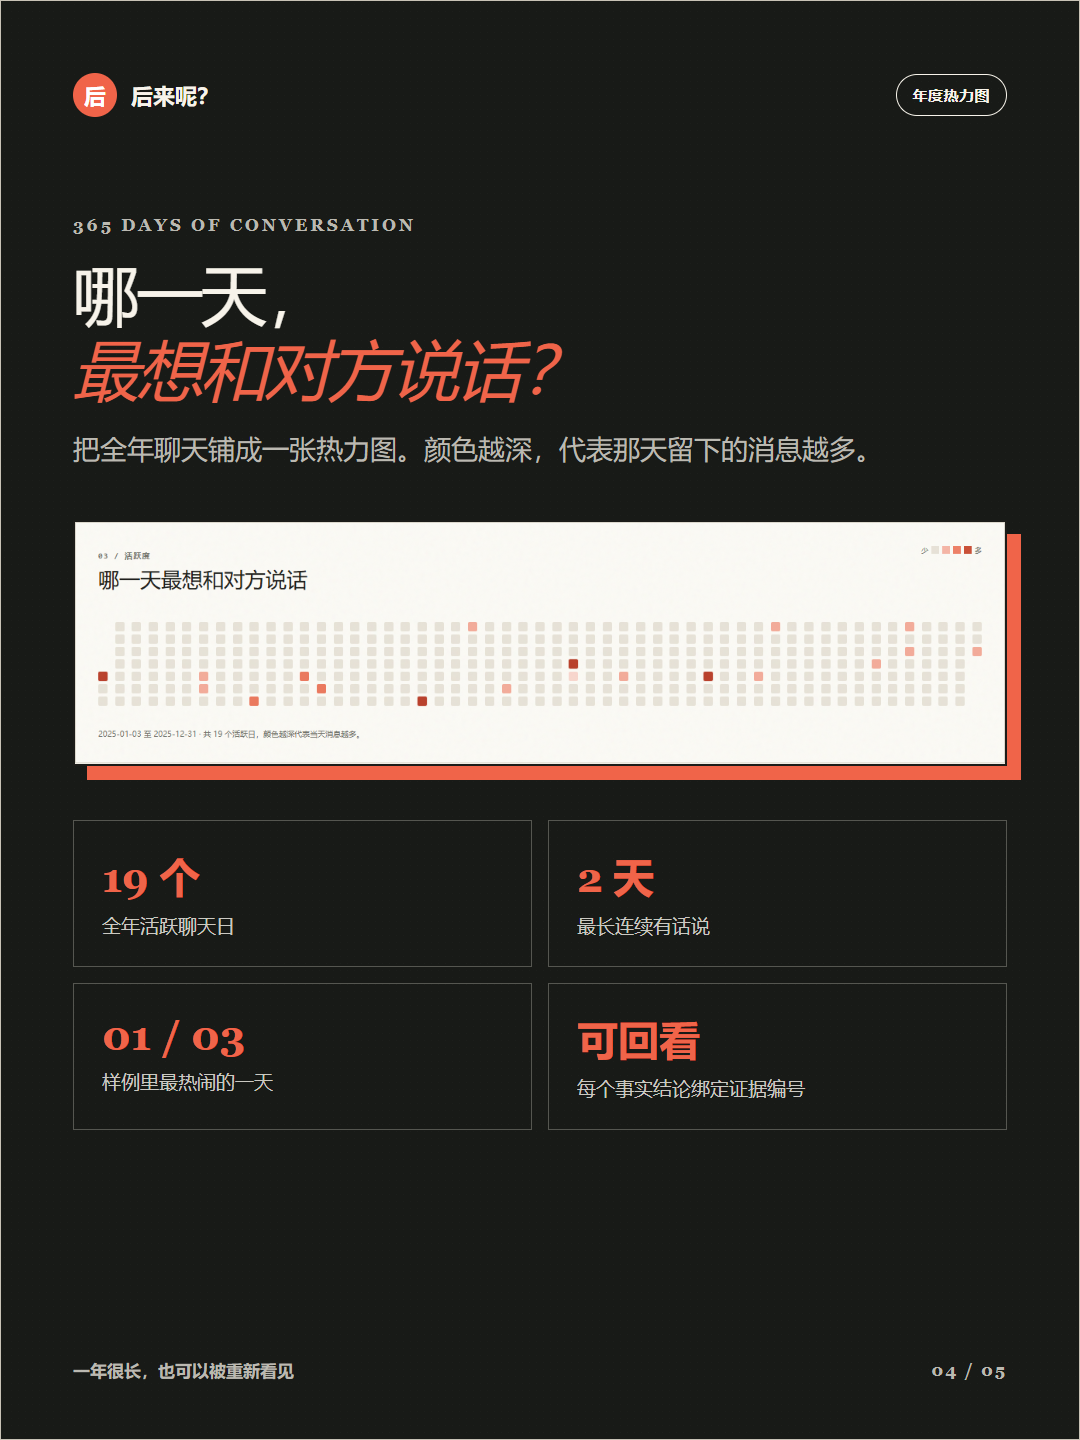
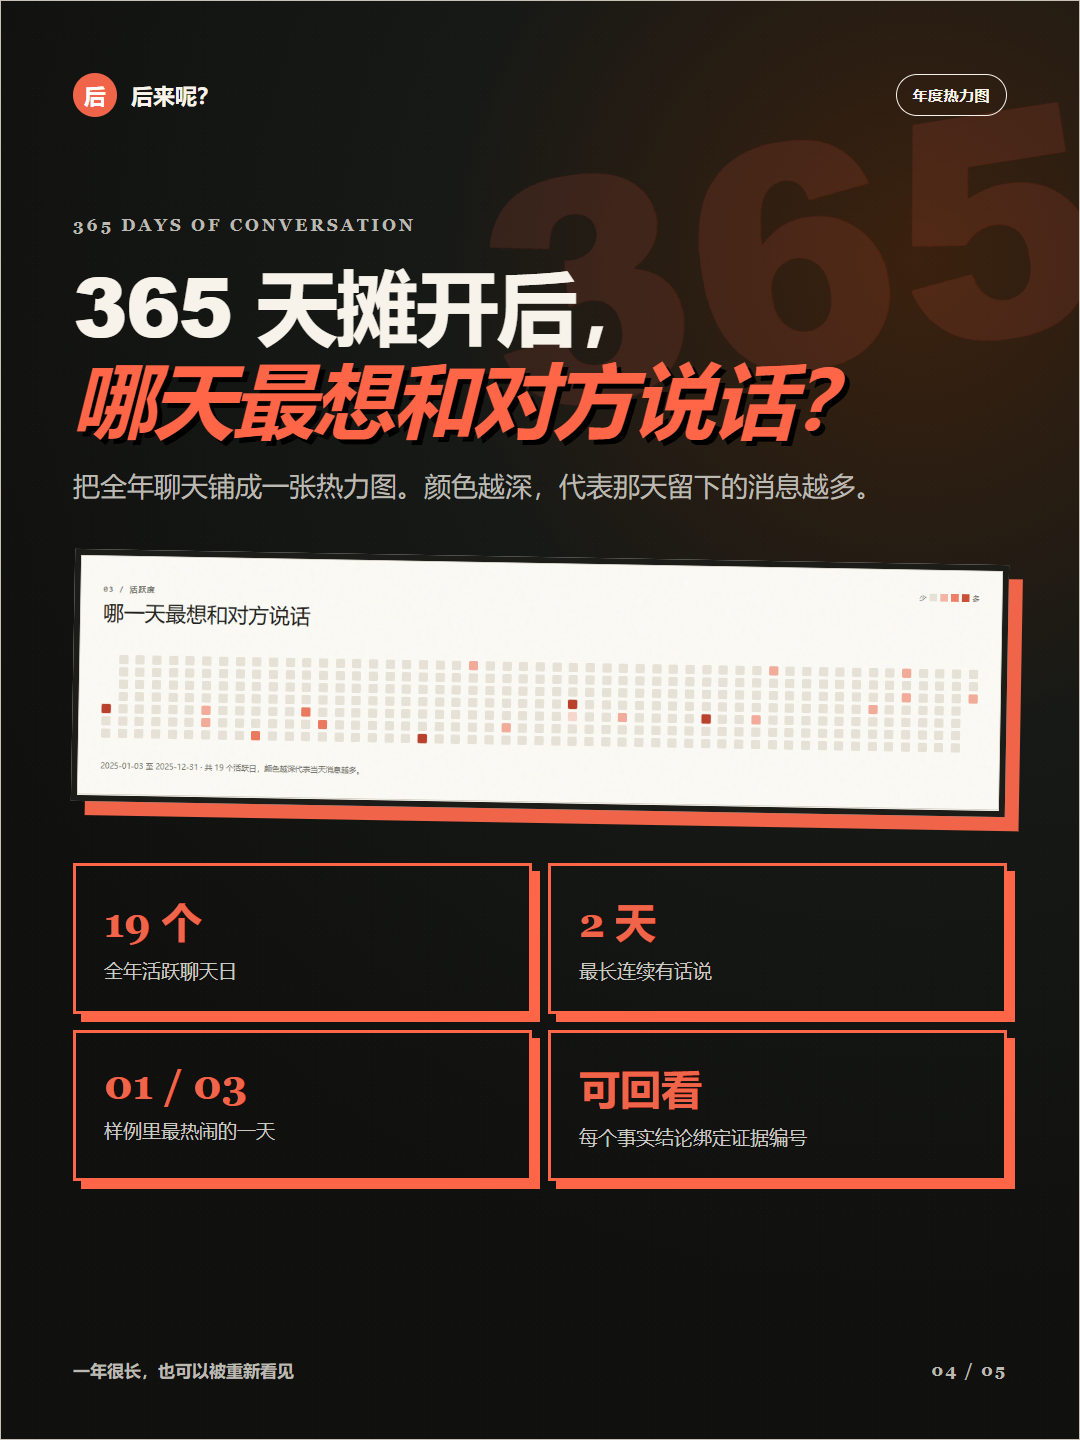
docs: amplify Xiaohongshu launch visuals

Changed region(s): [[0.0611, 0.0625, 1.0, 0.8438]]

diff --git a/article/小红书配图.html b/article/小红书配图.html
@@ -71,14 +71,59 @@
     .key i { padding: 17px; background: #22231f; color: white; font-style: normal; }
     .fixed { margin-top: 14px; padding: 12px; background: #eef3e9; font: 14px monospace; color: #53704e; }
     .privacy { position: relative; z-index: 2; margin-top: 42px; padding: 30px; border-left: 8px solid #7f9d7b; background: #e8eee4; font-size: 21px; line-height: 1.6; }
+    /* V2：高冲击小红书视觉。保留真实界面与文字，只重做注意力层级。 */
+    #poster-1 { background: #ffe817; }
+    #poster-1::before { content: ""; position: absolute; width: 880px; height: 880px; right: -430px; top: 120px; border-radius: 50%; background: repeating-conic-gradient(#ff593d 0 7deg, transparent 7deg 15deg); opacity: .92; }
+    #poster-1 h1, #poster-2 h2, #poster-3 h2, #poster-5 h2 { font-family: "Arial Black", "Microsoft YaHei", sans-serif; font-weight: 950; font-style: normal; }
+    #poster-1 h1 { margin-top: 30px; font-size: 105px; line-height: 1.02; text-shadow: 8px 8px 0 #fff; }
+    #poster-1 .accent { color: #ff4d2e; -webkit-text-stroke: 3px #161713; text-shadow: 7px 7px 0 #fff; }
+    #poster-1 .lead { max-width: 720px; padding: 16px 20px; background: #161713; color: white; font-weight: 800; transform: rotate(-1deg); }
+    #poster-1 .paper { margin-top: 58px; border-width: 6px; box-shadow: 24px 24px 0 #3155ff; transform: rotate(-1.5deg); }
+    #poster-1 .burst { position: absolute; z-index: 4; right: 46px; top: 596px; width: 190px; height: 190px; display: grid; place-items: center; padding: 25px; border-radius: 50%; background: #3155ff; color: white; border: 5px solid #171813; box-shadow: 8px 8px 0 white; text-align: center; font-size: 25px; line-height: 1.25; font-weight: 900; transform: rotate(10deg); }
+    #poster-2 { background: #ff6547; }
+    #poster-2 h2 { margin-top: 22px; font-size: 74px; line-height: 1.08; color: #161713; text-shadow: 5px 5px 0 #fff; }
+    #poster-2 .accent { color: #ffe817; -webkit-text-stroke: 2px #161713; text-shadow: 5px 5px 0 #fff; }
+    #poster-2 .lead { color: #1a1b17; font-weight: 800; }
+    #poster-2 .event { border: 5px solid #161713; box-shadow: 11px 11px 0 #161713; }
+    #poster-2 .event:nth-child(1) { transform: rotate(-2deg); }
+    #poster-2 .event:nth-child(3) { transform: rotate(1.5deg); }
+    #poster-2 .event:nth-child(5) { transform: rotate(-1deg); }
+    #poster-2 .timeline-result { border: 3px solid #161713; background: #ffe817; box-shadow: 8px 8px 0 #3155ff; }
+    #poster-2 .tags span { border: 3px solid #161713; background: white; font-weight: 800; box-shadow: 4px 4px 0 #161713; }
+    #poster-3 { background: #5368ff; color: white; }
+    #poster-3::before { content: "18:00"; position: absolute; right: -35px; top: 110px; color: rgba(255,232,23,.16); font: 950 230px/1 "Arial Black", sans-serif; transform: rotate(-8deg); }
+    #poster-3 h2 { font-size: 78px; text-shadow: 6px 6px 0 #171813; }
+    #poster-3 .accent { color: #ffe817; -webkit-text-stroke: 2px #171813; text-shadow: 6px 6px 0 #171813; }
+    #poster-3 .lead { color: white; font-weight: 800; }
+    #poster-3 .visual-frame { border-width: 6px; box-shadow: 18px 18px 0 #ffe817; transform: rotate(-1deg); }
+    #poster-3 .insight-strip div { border: 4px solid #171813; box-shadow: 8px 8px 0 #171813; color: #171813; background: #ffe817; }
+    #poster-3 .insight-strip div:nth-child(2) { background: #b9ff35; }
+    #poster-3 .insight-strip div:nth-child(3) { background: #ff6547; }
+    #poster-3 .footer { color: white; }
+    #poster-4 { background: radial-gradient(circle at 85% 18%, #3b210e 0, #171916 32%, #10110f 70%); }
+    #poster-4::before { content: "365"; position: absolute; right: -20px; top: 90px; color: rgba(255,101,71,.12); font: 950 310px/1 "Arial Black", sans-serif; transform: rotate(-9deg); }
+    #poster-4 h2 { font-family: "Arial Black", "Microsoft YaHei", sans-serif; font-weight: 950; font-size: 82px; }
+    #poster-4 .accent { color: #ff6547; text-shadow: 5px 5px 0 #000; }
+    #poster-4 .visual-frame { border-width: 6px; transform: rotate(1deg); }
+    #poster-4 .heat-facts div { border: 3px solid #ff6547; box-shadow: 8px 8px 0 #ff6547; }
+    #poster-5 { background: #b9ff35; }
+    #poster-5::before { content: "UPLOAD YOUR CHAT"; position: absolute; right: -110px; top: 280px; padding: 18px 120px; background: #ff6547; color: #171813; font: 950 30px/1 "Arial Black", sans-serif; transform: rotate(18deg); border: 4px solid #171813; }
+    #poster-5 h2 { font-size: 78px; line-height: 1.06; text-shadow: 6px 6px 0 white; }
+    #poster-5 .accent { color: #3155ff; -webkit-text-stroke: 2px #171813; text-shadow: 6px 6px 0 white; }
+    #poster-5 .lead { color: #171813; font-weight: 800; }
+    #poster-5 .entry-card { border-width: 5px; box-shadow: 14px 14px 0 #3155ff; }
+    #poster-5 .entry-card:nth-child(2) { transform: rotate(1deg); box-shadow: 14px 14px 0 #ff6547; }
+    #poster-5 .privacy { border: 4px solid #171813; background: #ffe817; box-shadow: 8px 8px 0 #171813; }
+    #poster-5 .tags span { border: 3px solid #171813; background: white; font-weight: 800; box-shadow: 4px 4px 0 #171813; }
   </style>
 </head>
 <body>
   <section class="poster cover" id="poster-1">
     <div class="topline"><div class="brand"><i>后</i><span>后来呢？</span></div><span class="model">Doubao-Seed-Evolving</span></div>
-    <div class="eyebrow">WHAT HAPPENED NEXT? / 2025</div>
-    <h1>把一整年的聊天，<br><span class="accent">还原成故事发生过的样子。</span></h1>
-    <p class="lead">不是只看“聊了多少”，而是找回一句约定、一次反馈和它们隔了几个月才出现的后来。</p>
+    <div class="eyebrow">CHAT RECORDS → STORY LINES</div>
+    <h1>我把一整年的聊天<br><span class="accent">丢给了 AI。</span></h1>
+    <p class="lead">结果它翻出了：27 天后真的发生的约定。</p>
+    <div class="burst">不是算<br>“谁更爱谁”</div>
     <div class="paper">
       <div class="paper-head"><span>A CLUE ACROSS TIME</span><span>27 DAYS</span></div>
       <div class="message">周末要不要去江边骑车？</div>
@@ -92,8 +137,8 @@
   <section class="poster" id="poster-2">
     <div class="topline"><div class="brand"><i>后</i><span>后来呢？</span></div><span class="model">跨月线索</span></div>
     <div class="eyebrow">A CLUE ACROSS TIME</div>
-    <h2>一句“等忙完去骑车”，<br><span class="accent">27 天后真的发生了吗？</span></h2>
-    <p class="lead">关键词只能找到“骑车”。真正想知道的是：谁先提出、有没有重排、最后是否落地。</p>
+    <h2>“等忙完去骑车”，<br><span class="accent">27 天后居然真去了！</span></h2>
+    <p class="lead">关键词只能找到“骑车”。它找的是：提出 → 重排 → 最后落地。</p>
     <div class="timeline">
       <div class="timeline-row">
         <div class="event coral"><small>03 / 09 · 发起</small><q>周末要不要去江边骑车？</q><b>E00010</b></div>
@@ -111,8 +156,8 @@
   <section class="poster" id="poster-3">
     <div class="topline"><div class="brand"><i>后</i><span>后来呢？</span></div><span class="model">视觉年鉴</span></div>
     <div class="eyebrow">YOUR CHAT IN NUMBERS</div>
-    <h2>这一年聊了什么？<br><span class="accent">聊天里还藏着哪些数字？</span></h2>
-    <p class="lead">词云负责第一眼的记忆，趣味数字把聊天习惯变成可以分享的年终总结。</p>
+    <h2>原来我们最爱<br><span class="accent">在 18:00 说话。</span></h2>
+    <p class="lead">还有：3 分钟中位回应间隔、最热闹的一天、最长连续聊天……</p>
     <div class="visual-frame"><img src="assets/10-词云与趣味数据.png" alt="聊天词云与趣味数据" /></div>
     <div class="insight-strip"><div><b>01 / 03</b><span>最热闹的一天</span></div><div><b>18:00</b><span>最常出现的时刻</span></div><div><b>3 分钟</b><span>中位回应间隔</span></div></div>
     <div class="footer"><span>词云 · 连续聊天天数 · 回应速度</span><span class="page-no">03 / 05</span></div>
@@ -121,7 +166,7 @@
   <section class="poster heat-poster" id="poster-4">
     <div class="topline"><div class="brand"><i>后</i><span>后来呢？</span></div><span class="model">年度热力图</span></div>
     <div class="eyebrow">365 DAYS OF CONVERSATION</div>
-    <h2>哪一天，<br><span class="accent">最想和对方说话？</span></h2>
+    <h2>365 天摊开后，<br><span class="accent">哪天最想和对方说话？</span></h2>
     <p class="lead">把全年聊天铺成一张热力图。颜色越深，代表那天留下的消息越多。</p>
     <div class="visual-frame"><img src="assets/11-年度活跃热力图.png" alt="年度聊天热力图" /></div>
     <div class="heat-facts"><div><b>19 个</b><span>全年活跃聊天日</span></div><div><b>2 天</b><span>最长连续有话说</span></div><div><b>01 / 03</b><span>样例里最热闹的一天</span></div><div><b>可回看</b><span>每个事实结论绑定证据编号</span></div></div>
@@ -131,7 +176,7 @@
   <section class="poster" id="poster-5">
     <div class="topline"><div class="brand"><i>后</i><span>后来呢？</span></div><span class="model">OPEN SOURCE</span></div>
     <div class="eyebrow">YOUR CHAT · YOUR KEY</div>
-    <h2>上传你的聊天记录，<br><span class="accent">生成自己的聊天年鉴。</span></h2>
+    <h2>聊天记录别只躺着，<br><span class="accent">自己生成一本年鉴。</span></h2>
     <p class="lead">项目开放上传和模型入口：可以粘贴聊天、导入文件，也可以填写自己的 Ark API Key。</p>
     <div class="entry-grid">
       <div class="entry-card"><b>01 / 放入记录</b><p>支持 TXT、MD、CSV，或直接粘贴文本。</p><div class="drop">↑<br>拖入聊天记录<br><small>当前上限 8MB</small></div></div>
